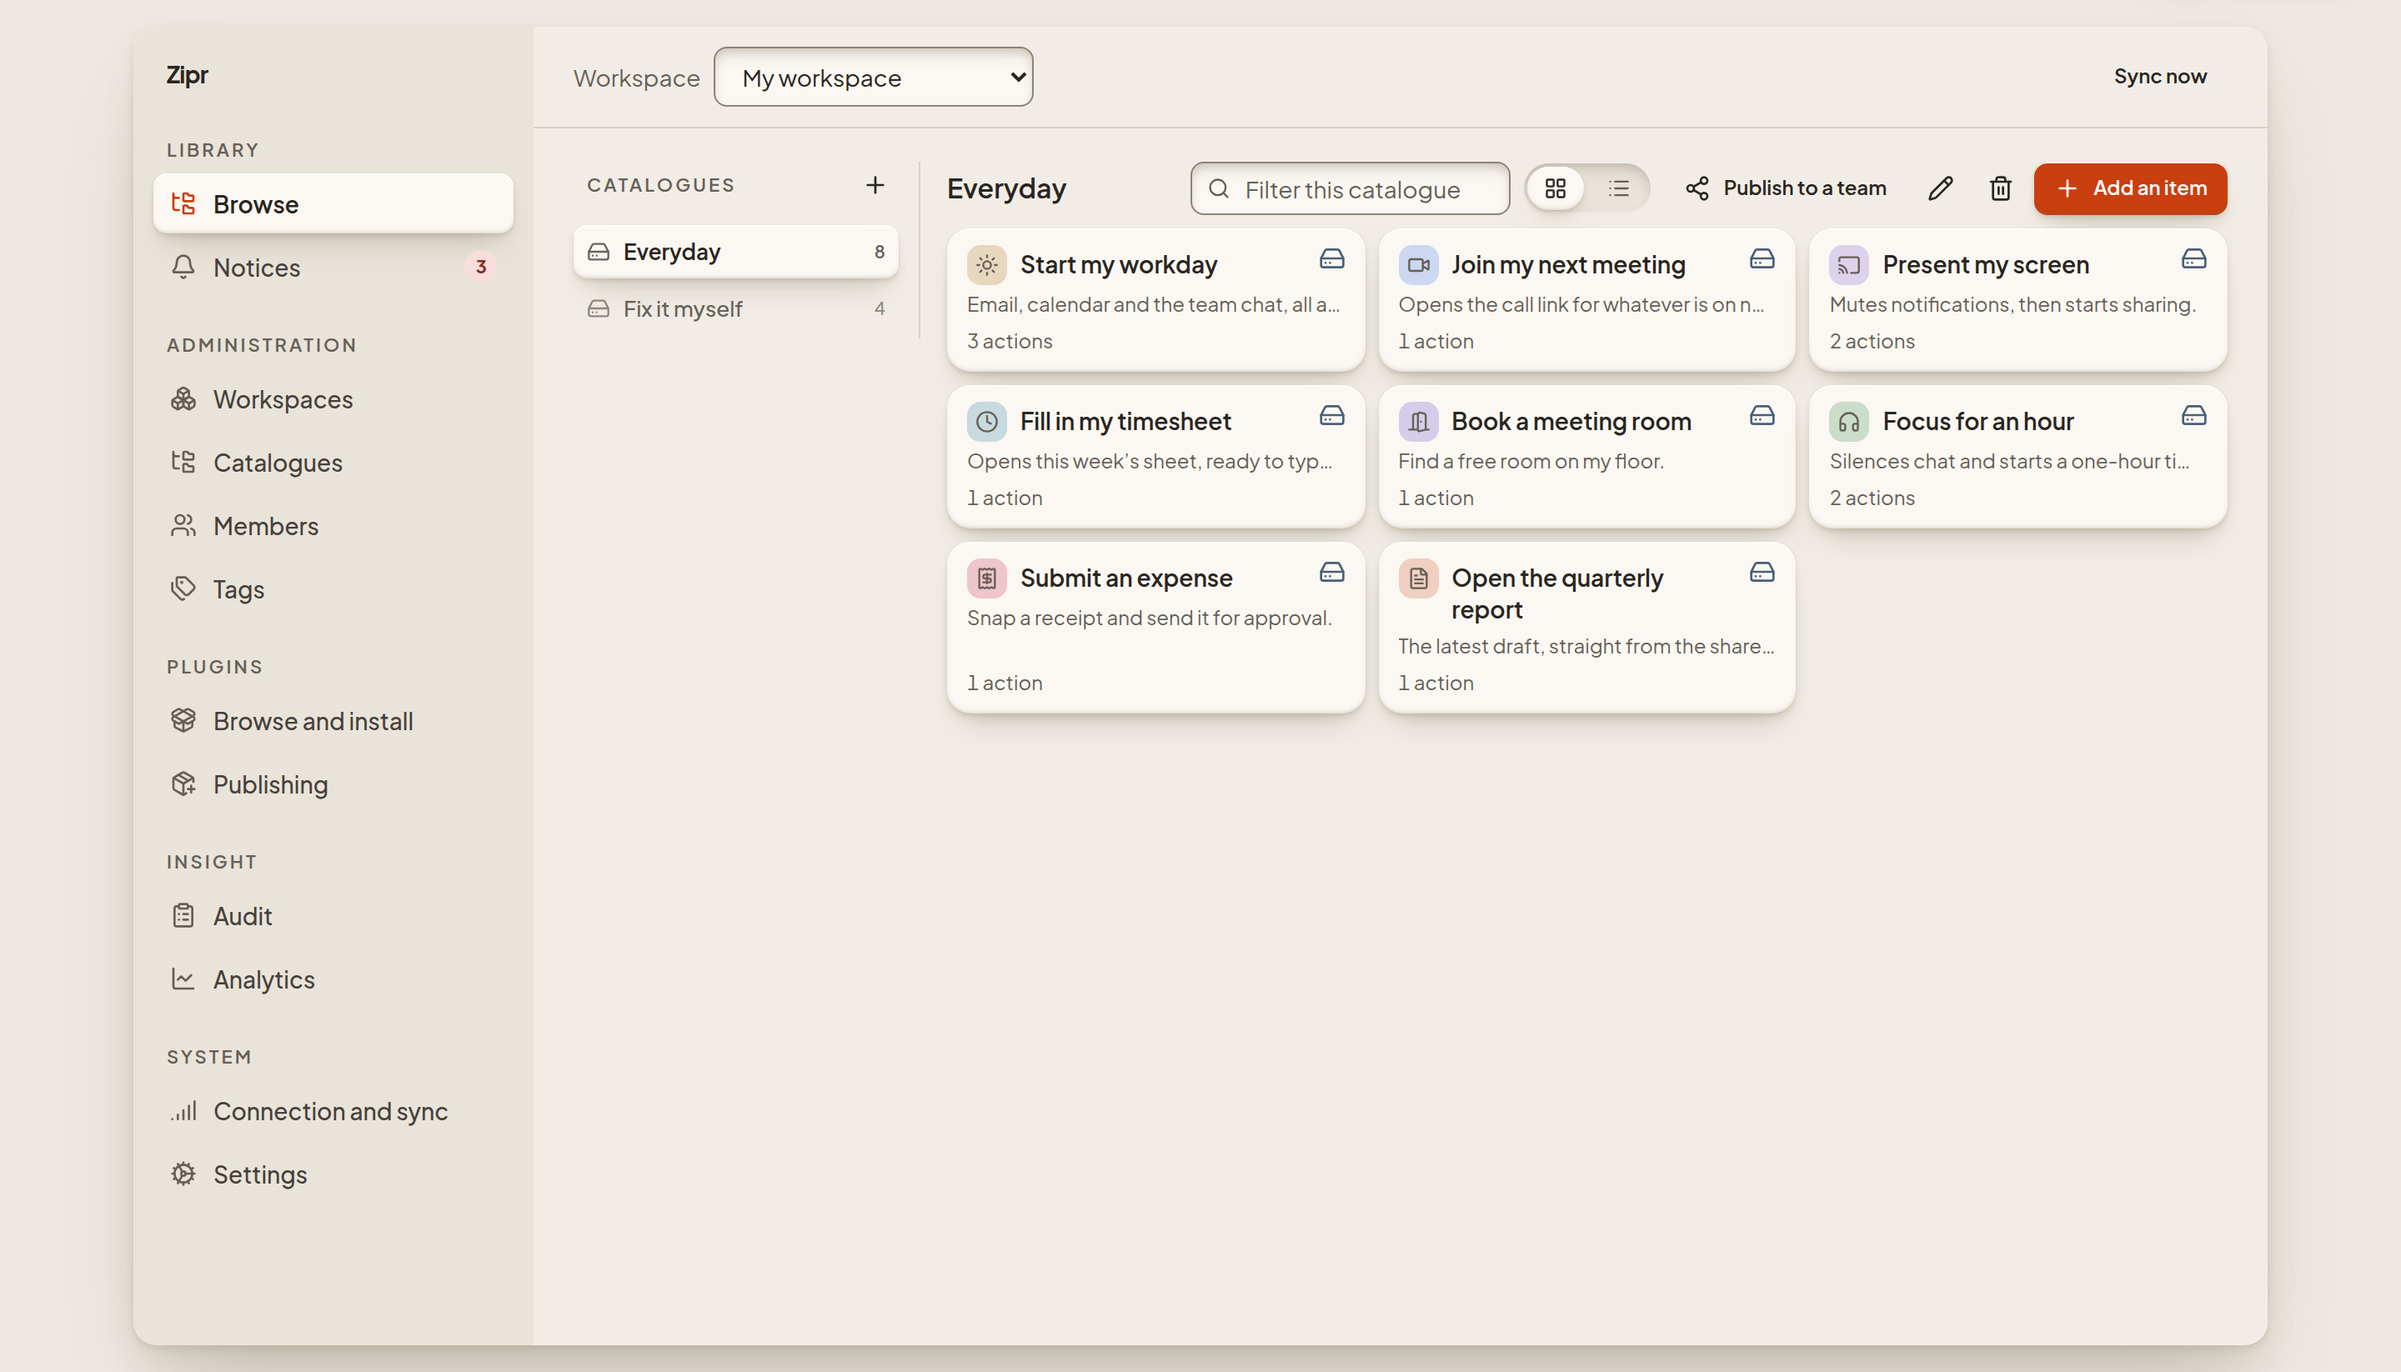
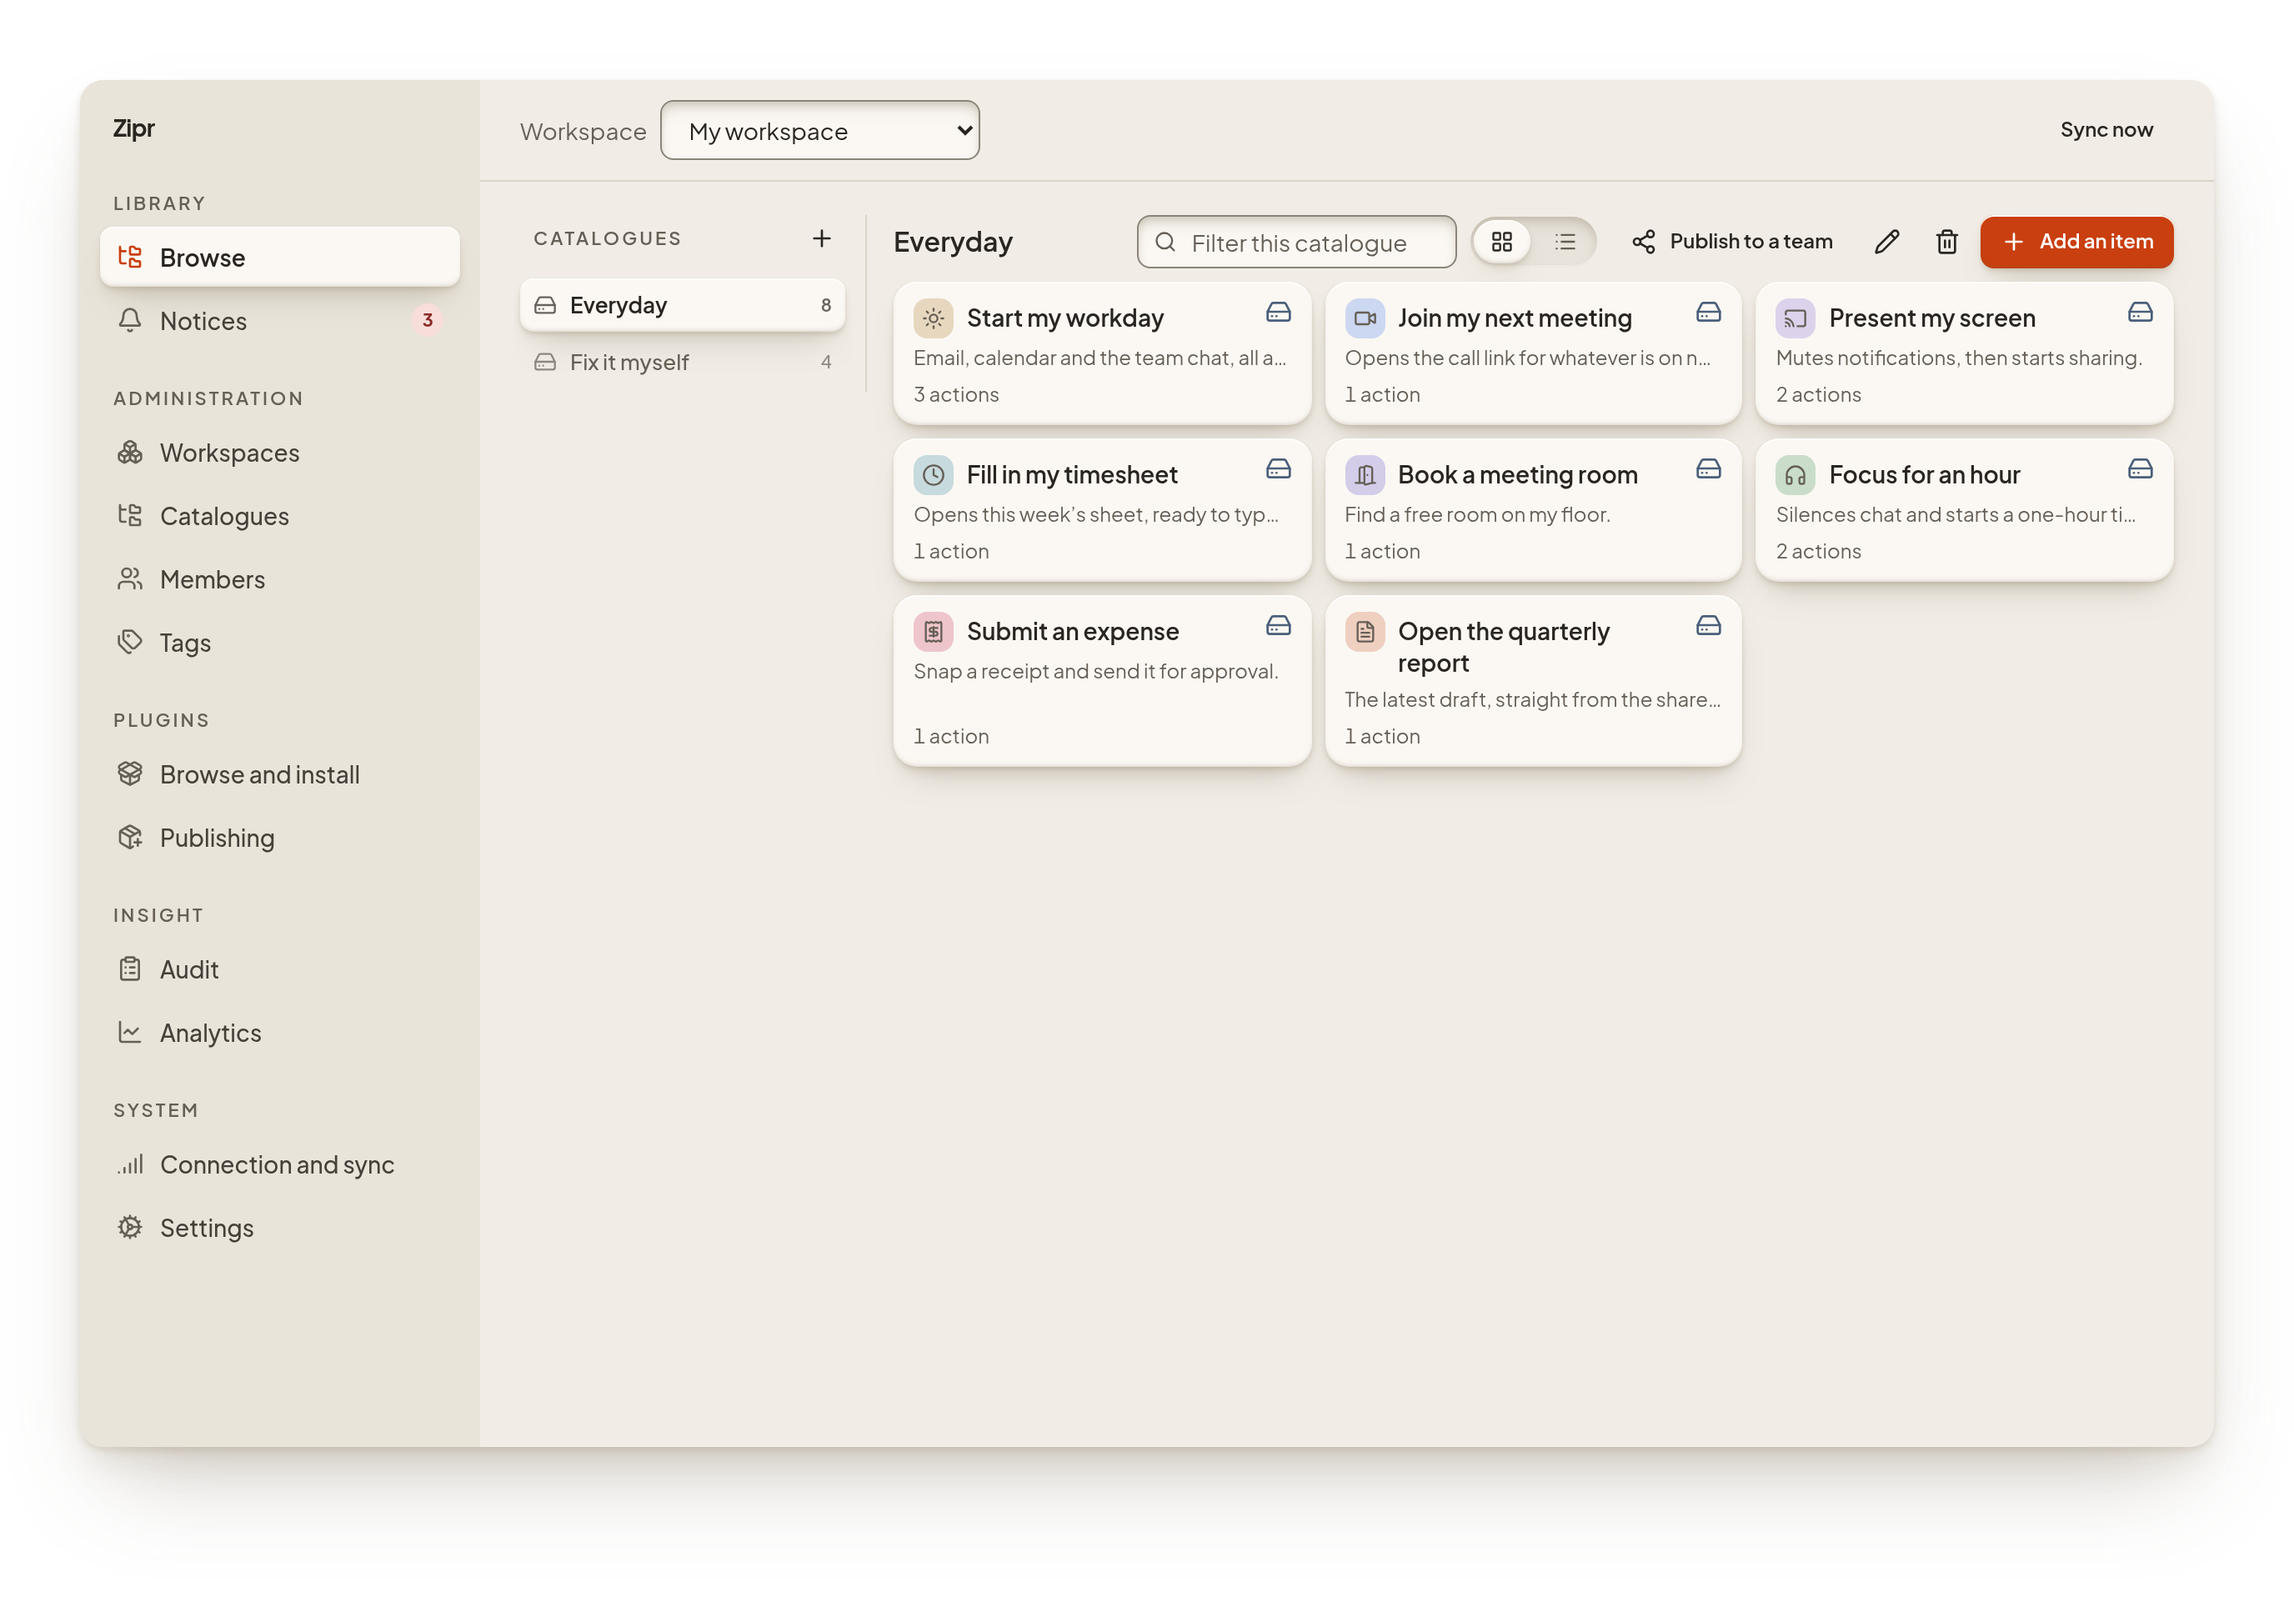
feat(site): use transparent window-only screenshots with no page-side framing
The screenshots are now just the window, on a transparent background, with
its own rounded corners and shadow. Drop the radius, clip and shadow the
page put around them, and the hero tilt, so the pixels are shown as made.

Claude-Session: https://claude.ai/code/session_01D6iaaBPTRZJMYHFYVvQe5g

Changed region(s): [[0.0, 0.0, 1.0, 1.0], [0.0625, 0.8056, 0.1875, 0.8676]]

diff --git a/worker/content/site.ts b/worker/content/site.ts
@@ -97,7 +97,9 @@ export const PUBLIC_NAV = [
  * Product screenshots, served from `public/screenshots/`.
  *
  * Each is rendered from the app's own screen gallery in both themes and named
- * `<id>-light.png` / `<id>-dark.png`. Width and height are the rendered
+ * `<id>-light.png` / `<id>-dark.png`. They are transparent PNGs of the window
+ * alone, with its own rounded corners and a margin that holds its shadow, so
+ * the page adds no frame, radius or shadow of its own. Width and height are the rendered
  * pixels, kept here so the page reserves the right box before the file
  * arrives and nothing jumps. If a file is re-rendered at a different size,
  * change it here.
@@ -109,23 +111,23 @@ export const SCREENSHOT_BASE = "/screenshots";
 
 export const SCREENSHOTS = {
   "overlay-list": {
-    width: 1800,
-    height: 1238,
+    width: 1792,
+    height: 1422,
     alt: "The Zipr launcher: a search box above a list of items — Start my workday, Join my next meeting, Present my screen and more — each with its own icon and colour.",
   },
   "overlay-grid": {
-    width: 1800,
-    height: 1118,
+    width: 1992,
+    height: 1494,
     alt: "The Zipr launcher in its grid layout: a search box above tiles for Start my workday, Join my next meeting, Present my screen and others, each with an icon and a one-line description.",
   },
   "item-detail": {
-    width: 2400,
-    height: 1158,
+    width: 2192,
+    height: 1326,
     alt: "A Zipr item, Deploy to production, with its tags and three steps: ask for a yes or no, run a command, and open a web address.",
   },
   "app-browse": {
-    width: 2880,
-    height: 1646,
+    width: 2752,
+    height: 1928,
     alt: "The Zipr app's Browse screen: a sidebar of sections, a list of catalogues, and a grid of items such as Start my workday and Book a meeting room.",
   },
 } as const;

diff --git a/worker/views/components/Ui.tsx b/worker/views/components/Ui.tsx
@@ -428,6 +428,9 @@ export const Disclosure: FC<{ question: string; children?: Child }> = ({ questio
  * `prefers-color-scheme` source would follow the operating system only, and
  * the theme toggle in the header would then disagree with the pictures.
  *
+ * The image carries its own corners and shadow (transparent PNG), so nothing
+ * here rounds, clips or shades it.
+ *
  * The hidden image is lazy, so a browser does not download it. `eager` is for
  * the picture at the top of the page, where lazy loading would delay the
  * largest paint; it costs the hidden variant too, which is the price of not
@@ -451,7 +454,7 @@ export const Screenshot: FC<{ id: ScreenshotId; eager?: boolean; class?: string 
     />
   );
   return (
-    <span class={`shot block overflow-hidden rounded-[1.4rem] shadow-floating ${className}`}>
+    <span class={`shot block ${className}`}>
       {image("light")}
       {image("dark")}
     </span>

diff --git a/worker/views/pages/Home.tsx b/worker/views/pages/Home.tsx
@@ -76,7 +76,7 @@ const HeroPanel: FC = () => (
       aria-hidden="true"
     ></span>
 
-    <ScreenshotSwap ids={["overlay-list", "overlay-grid"]} class="relative rotate-[0.6deg]" />
+    <ScreenshotSwap ids={["overlay-list", "overlay-grid"]} class="relative" />
 
     <p class="mt-5 text-center text-xs text-muted-foreground">
       The Zipr launcher, in its list and grid layouts.
